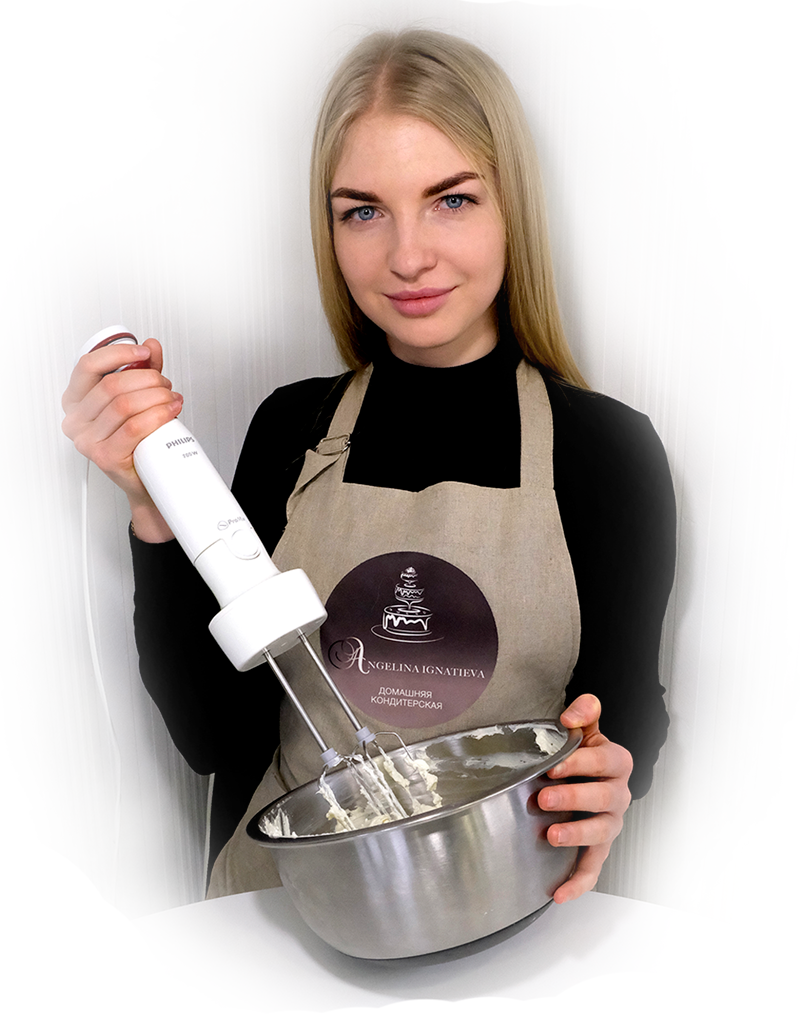
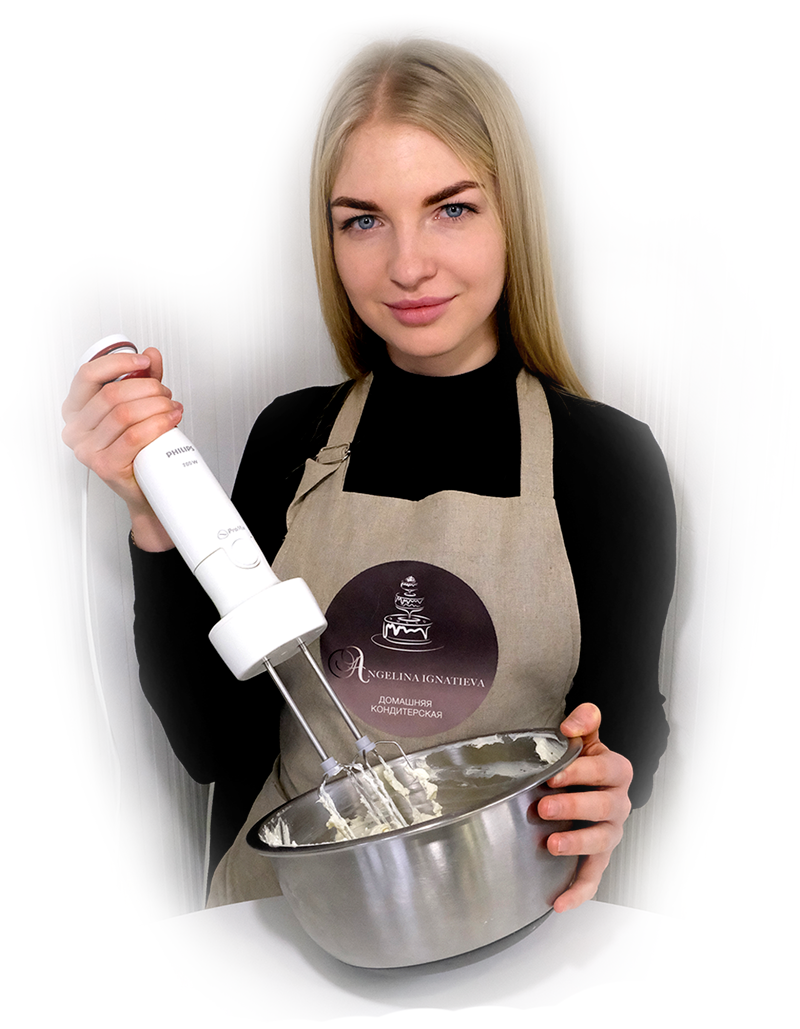
Оптимизация изображений

diff --git a/src/sass/layout/_about.scss b/src/sass/layout/_about.scss
@@ -1,7 +1,3 @@
-.section-about {
-  padding-top: 15px;
-}
-
 .containe-img {
   margin: 0 auto;
   width: 200px;
